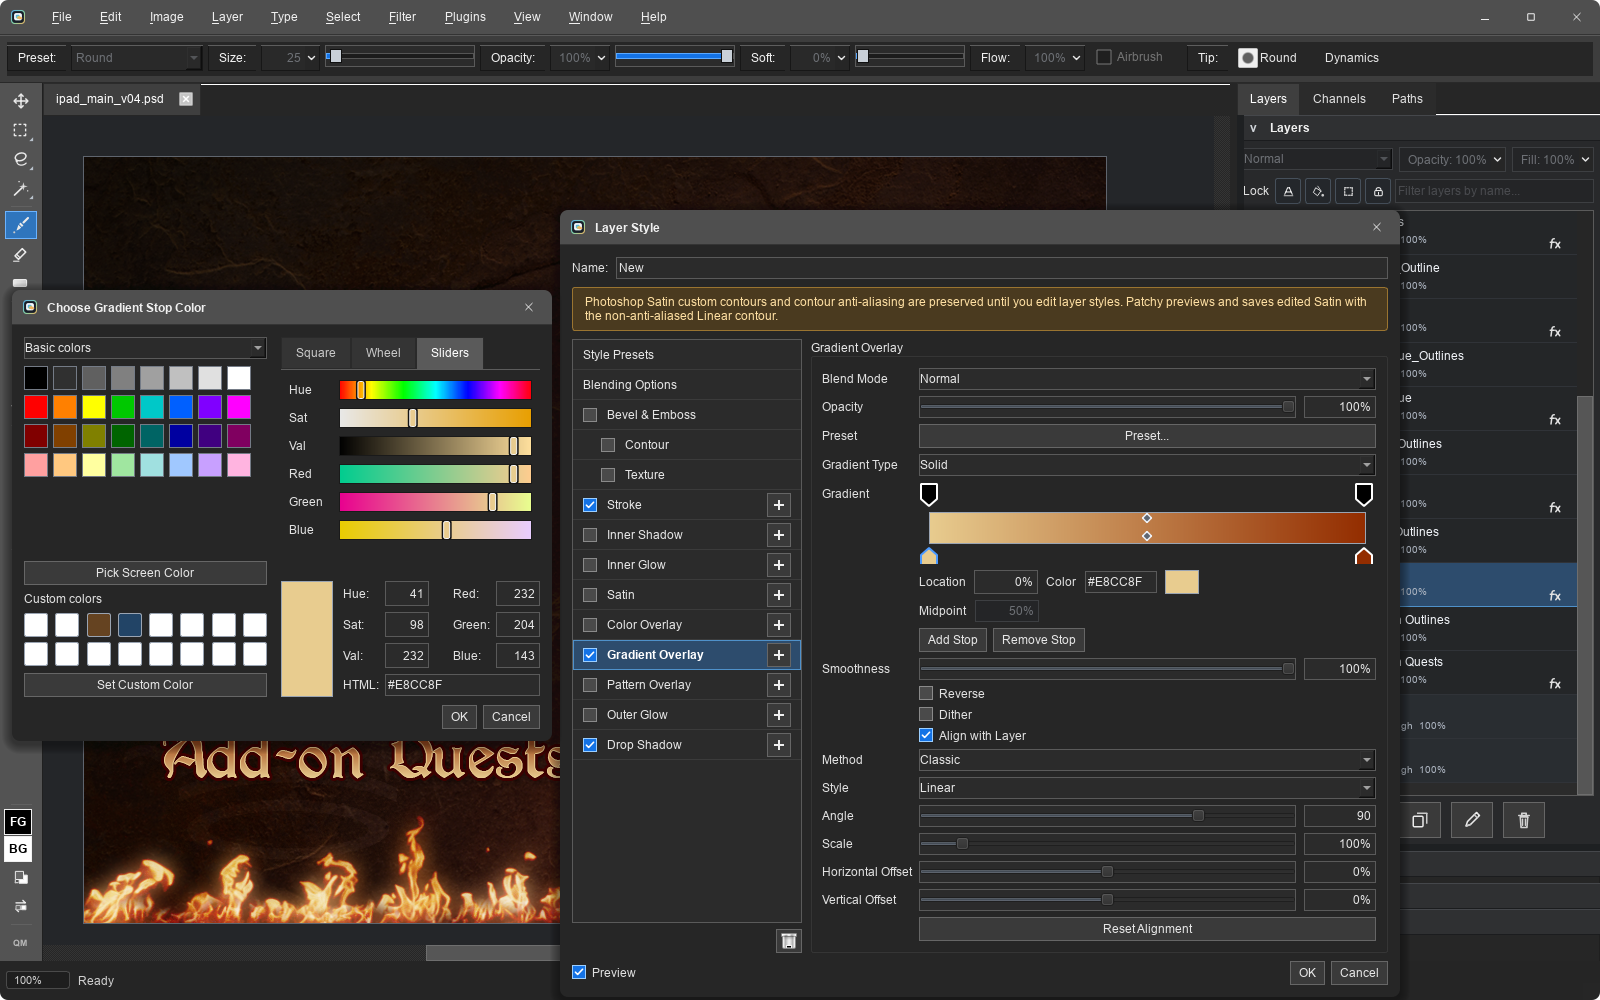
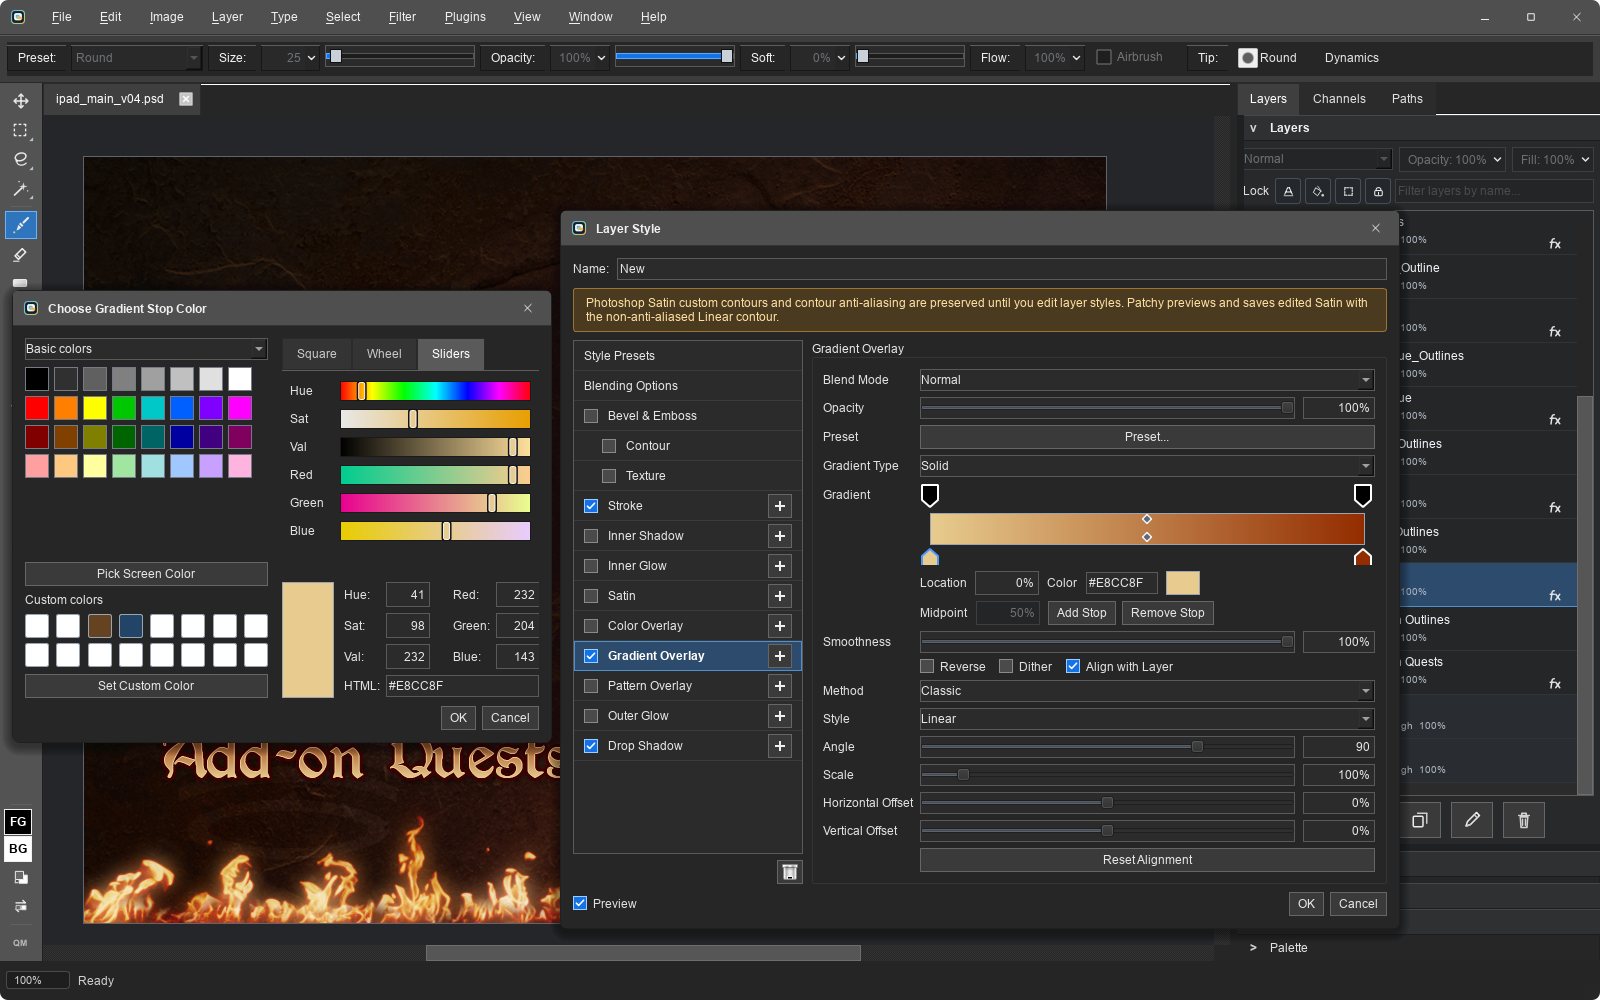
Layer Style dialog: stroke page scrolls and gradient rows compact, so the dialog is no taller than its tallest visible page

diff --git a/src/ui/layer_style_dialog.cpp b/src/ui/layer_style_dialog.cpp
@@ -49,6 +49,8 @@
 #include <QPolygonF>
 #include <QPushButton>
 #include <QScreen>
+#include <QScrollArea>
+#include <QScrollBar>
 #include <QSignalBlocker>
 #include <QSize>
 #include <QSizePolicy>
@@ -871,7 +873,9 @@ std::optional<LayerStyleSettings> request_layer_style_settings(
 
   QDialog dialog(parent);
   dialog.setObjectName(QStringLiteral("patchyLayerStyleDialog"));
-  dialog.resize(840, 680);
+  // Height below any plausible layout minimum: Qt clamps up to the minimum, so
+  // the dialog opens exactly as tall as its tallest settings page needs.
+  dialog.resize(840, 560);
   auto* root = install_dark_dialog_chrome(dialog, new QVBoxLayout(&dialog), QObject::tr("Layer Style"),
                                           DialogChromeCloseMode::Accept);
 
@@ -1215,23 +1219,23 @@ std::optional<LayerStyleSettings> request_layer_style_settings(
     configure_dialog_spinbox(state->stop_midpoint, 64);
     midpoint_layout->addWidget(state->stop_midpoint_label);
     midpoint_layout->addWidget(state->stop_midpoint);
-    midpoint_layout->addStretch(1);
-    form->addRow(QString(), midpoint_row);
 
-    auto *stop_buttons = new QWidget(parent_widget);
+    // The stop buttons share the midpoint row to keep the gradient block short;
+    // they stay a separate container because Solid/Noise switching toggles it.
+    auto *stop_buttons = new QWidget(midpoint_row);
     state->stop_button_controls = stop_buttons;
-    auto *
-    stop_button_layout = new QHBoxLayout(stop_buttons);
+    auto *stop_button_layout = new QHBoxLayout(stop_buttons);
     stop_button_layout->setContentsMargins(0, 0, 0, 0);
-    stop_button_layout->setSpacing(6);state->add_stop = new QPushButton(QObject::tr("Add Stop"), stop_buttons);
-
+    stop_button_layout->setSpacing(6);
+    state->add_stop = new QPushButton(QObject::tr("Add Stop"), stop_buttons);
     state->add_stop->setObjectName(object_prefix + QStringLiteral("AddStopButton"));
     state->remove_stop = new QPushButton(QObject::tr("Remove Stop"), stop_buttons);
     state->remove_stop->setObjectName(object_prefix + QStringLiteral("RemoveStopButton"));
     stop_button_layout->addWidget(state->add_stop);
     stop_button_layout->addWidget(state->remove_stop);
-    stop_button_layout->addStretch(1);
-    form->addRow(QString(), stop_buttons);
+    midpoint_layout->addWidget(stop_buttons);
+    midpoint_layout->addStretch(1);
+    form->addRow(QString(), midpoint_row);
 
     state->smoothness = add_slider_spin_row(
         form, parent_widget,QObject::tr("Smoothness"),
@@ -1304,17 +1308,25 @@ std::optional<LayerStyleSettings> request_layer_style_settings(
     }
     form->addRow(QString(), state->noise_controls);
 
-    state->reverse = new QCheckBox(QObject::tr("Reverse"), parent_widget);
+    // One shared row keeps the gradient block short enough that the Gradient
+    // Overlay page, the tallest in the stack, does not stretch the dialog.
+    auto *toggles_row = new QWidget(parent_widget);
+    auto *toggles_layout = new QHBoxLayout(toggles_row);
+    toggles_layout->setContentsMargins(0, 0, 0, 0);
+    toggles_layout->setSpacing(12);
+    state->reverse = new QCheckBox(QObject::tr("Reverse"), toggles_row);
     state->reverse->setObjectName(object_prefix +
                                   QStringLiteral("ReverseCheck"));
-    form->addRow(QString(), state->reverse);
-    state->dither = new QCheckBox(QObject::tr("Dither"), parent_widget);
+    toggles_layout->addWidget(state->reverse);
+    state->dither = new QCheckBox(QObject::tr("Dither"), toggles_row);
     state->dither->setObjectName(object_prefix + QStringLiteral("DitherCheck"));
-    form->addRow(QString(), state->dither);
+    toggles_layout->addWidget(state->dither);
     state->align =
-        new QCheckBox(QObject::tr("Align with Layer"), parent_widget);
+        new QCheckBox(QObject::tr("Align with Layer"), toggles_row);
     state->align->setObjectName(object_prefix + QStringLiteral("AlignCheck"));
-    form->addRow(QString(), state->align);
+    toggles_layout->addWidget(state->align);
+    toggles_layout->addStretch(1);
+    form->addRow(QString(), toggles_row);
     state->interpolation = new QComboBox(parent_widget);
     state->interpolation->setObjectName(object_prefix +
                                         QStringLiteral("InterpolationCombo"));
@@ -2520,9 +2532,32 @@ std::optional<LayerStyleSettings> request_layer_style_settings(
     stroke_form->setRowVisible(stroke_rows.row_container, !uses_gradient);
     stroke_form->setRowVisible(stroke_gradient_group, uses_gradient);
   };
+  // The stroke page scrolls instead of sizing the dialog: a stacked layout's
+  // minimum is the max over all pages, and this page's nested gradient block
+  // (Fill = Gradient) would otherwise floor the whole dialog ~180px above the
+  // tallest overlay page.
+  auto* stroke_scroll = new QScrollArea(&dialog);
+  stroke_scroll->setObjectName(QStringLiteral("layerStyleStrokeScroll"));
+  stroke_scroll->setWidgetResizable(true);
+  stroke_scroll->setFrameShape(QFrame::NoFrame);
+  stroke_scroll->setHorizontalScrollBarPolicy(Qt::ScrollBarAlwaysOff);
+  set_themed_style(*stroke_scroll,
+                   QStringLiteral("QScrollArea#layerStyleStrokeScroll { background: transparent; }"
+                                  "QScrollArea#layerStyleStrokeScroll > QWidget > QWidget { "
+                                  "background: transparent; }"));
+  auto* stroke_scroll_page = new QWidget(stroke_scroll);
+  stroke_scroll_page->setObjectName(QStringLiteral("layerStyleStrokeScrollPage"));
+  auto* stroke_scroll_column = new QVBoxLayout(stroke_scroll_page);
+  stroke_scroll_column->setContentsMargins(0, 0, 6, 0);
+  stroke_scroll_column->addWidget(stroke_group);
+  stroke_scroll_column->addStretch(1);
+  stroke_scroll->setWidget(stroke_scroll_page);
+  // Measured while the gradient group is still visible so the sliders keep
+  // their full width when the vertical scrollbar appears.
+  stroke_scroll->setMinimumWidth(stroke_scroll_page->minimumSizeHint().width() +
+                                 stroke_scroll->verticalScrollBar()->sizeHint().width());
   update_stroke_fill_visibility();
-  stroke_layout->addWidget(stroke_group);
-  stroke_layout->addStretch(1);
+  stroke_layout->addWidget(stroke_scroll, 1);
 
   auto* inner_shadow_group = new QGroupBox(QObject::tr("Inner Shadow"), controls);
   auto* inner_shadow_form = new QFormLayout(inner_shadow_group);

diff --git a/tests/ui/layer_style_gradient_tests_effects.cpp b/tests/ui/layer_style_gradient_tests_effects.cpp
@@ -137,6 +137,7 @@
 #include <QPointingDevice>
 #include <QProgressDialog>
 #include <QPushButton>
+#include <QScrollArea>
 #include <QStackedWidget>
 #include <QRadioButton>
 #include <QSpinBox>
@@ -1157,6 +1158,12 @@ void ui_layer_style_gradient_stroke_controls_map_to_settings() {
     CHECK(gradient_group->isVisible());
     CHECK(editor->isVisible());
     CHECK(!editor->visibleRegion().isEmpty());
+    // The stroke page scrolls (its gradient block must not size the dialog),
+    // so bring the lower rows into the viewport before probing visibility.
+    auto* stroke_scroll = dialog->findChild<QScrollArea*>(QStringLiteral("layerStyleStrokeScroll"));
+    CHECK(stroke_scroll != nullptr);
+    stroke_scroll->ensureWidgetVisible(scale);
+    QApplication::processEvents();
     CHECK(!scale->visibleRegion().isEmpty());
     CHECK(!midpoint->isEnabled());
     fill->setCurrentIndex(0);
@@ -1199,6 +1206,57 @@ void ui_layer_style_gradient_stroke_controls_map_to_settings() {
   CHECK(result.gradient.color_stops.front().color.blue == 0x56);
   CHECK(std::abs(result.gradient.color_stops.back().midpoint - 0.64F) < 0.001F);
   CHECK(std::abs(result.gradient.alpha_stops.back().midpoint - 0.36F) < 0.001F);
+}
+
+void ui_layer_style_stroke_gradient_fill_keeps_dialog_height() {
+  // A gradient-fill stroke un-hides the stroke page's nested gradient block,
+  // which used to raise the stacked layout's minimum and open the whole dialog
+  // ~180px taller than any visible page needed. The stroke page scrolls
+  // instead now, so the dialog height must not depend on the stroke fill.
+  patchy::Document document(96, 72, patchy::PixelFormat::rgba8());
+
+  int color_height = 0;
+  int color_minimum = 0;
+  QTimer::singleShot(0, [&] {
+    auto* dialog = qobject_cast<QDialog*>(find_top_level_dialog(QStringLiteral("patchyLayerStyleDialog")));
+    CHECK(dialog != nullptr);
+    QApplication::processEvents();
+    color_height = dialog->height();
+    color_minimum = dialog->minimumSizeHint().height();
+    QTimer::singleShot(80, dialog, [dialog] { dialog->accept(); });
+  });
+  patchy::Layer color_layer(document.allocate_layer_id(), "Color Stroke",
+                            solid_pixels(48, 36, patchy::PixelFormat::rgba8(), QColor(80, 140, 220, 255)));
+  patchy::LayerStroke color_stroke;
+  color_stroke.enabled = true;
+  color_layer.layer_style().strokes.push_back(color_stroke);
+  CHECK(patchy::ui::request_layer_style_settings(nullptr, color_layer, {}).has_value());
+
+  int gradient_height = 0;
+  int gradient_minimum = 0;
+  QTimer::singleShot(0, [&] {
+    auto* dialog = qobject_cast<QDialog*>(find_top_level_dialog(QStringLiteral("patchyLayerStyleDialog")));
+    CHECK(dialog != nullptr);
+    CHECK(dialog->findChild<QScrollArea*>(QStringLiteral("layerStyleStrokeScroll")) != nullptr);
+    QApplication::processEvents();
+    gradient_height = dialog->height();
+    gradient_minimum = dialog->minimumSizeHint().height();
+    QTimer::singleShot(80, dialog, [dialog] { dialog->accept(); });
+  });
+  patchy::Layer gradient_layer(document.allocate_layer_id(), "Gradient Stroke",
+                               solid_pixels(48, 36, patchy::PixelFormat::rgba8(), QColor(80, 140, 220, 255)));
+  patchy::LayerStroke gradient_stroke;
+  gradient_stroke.enabled = true;
+  gradient_stroke.uses_gradient = true;
+  gradient_stroke.gradient.color_stops = {{0.0F, patchy::RgbColor{255, 255, 255}},
+                                          {1.0F, patchy::RgbColor{0, 0, 0}}};
+  gradient_stroke.gradient.alpha_stops = {{0.0F, 1.0F}, {1.0F, 1.0F}};
+  gradient_layer.layer_style().strokes.push_back(gradient_stroke);
+  CHECK(patchy::ui::request_layer_style_settings(nullptr, gradient_layer, {}).has_value());
+
+  CHECK(color_height > 0);
+  CHECK(gradient_height == color_height);
+  CHECK(gradient_minimum == color_minimum);
 }
 
 void ui_layer_style_bevel_lighting_controls_map_to_settings() {
@@ -1627,6 +1685,8 @@ std::vector<patchy::test::TestCase> layer_style_gradient_tests_part1() {
        ui_layer_style_blending_options_round_trip_the_interior_group_flag},
       {"ui_layer_style_gradient_stroke_controls_map_to_settings",
        ui_layer_style_gradient_stroke_controls_map_to_settings},
+      {"ui_layer_style_stroke_gradient_fill_keeps_dialog_height",
+       ui_layer_style_stroke_gradient_fill_keeps_dialog_height},
       {"ui_layer_style_bevel_lighting_controls_map_to_settings",
        ui_layer_style_bevel_lighting_controls_map_to_settings},
       {"ui_layer_style_satin_controls_map_to_settings", ui_layer_style_satin_controls_map_to_settings},
